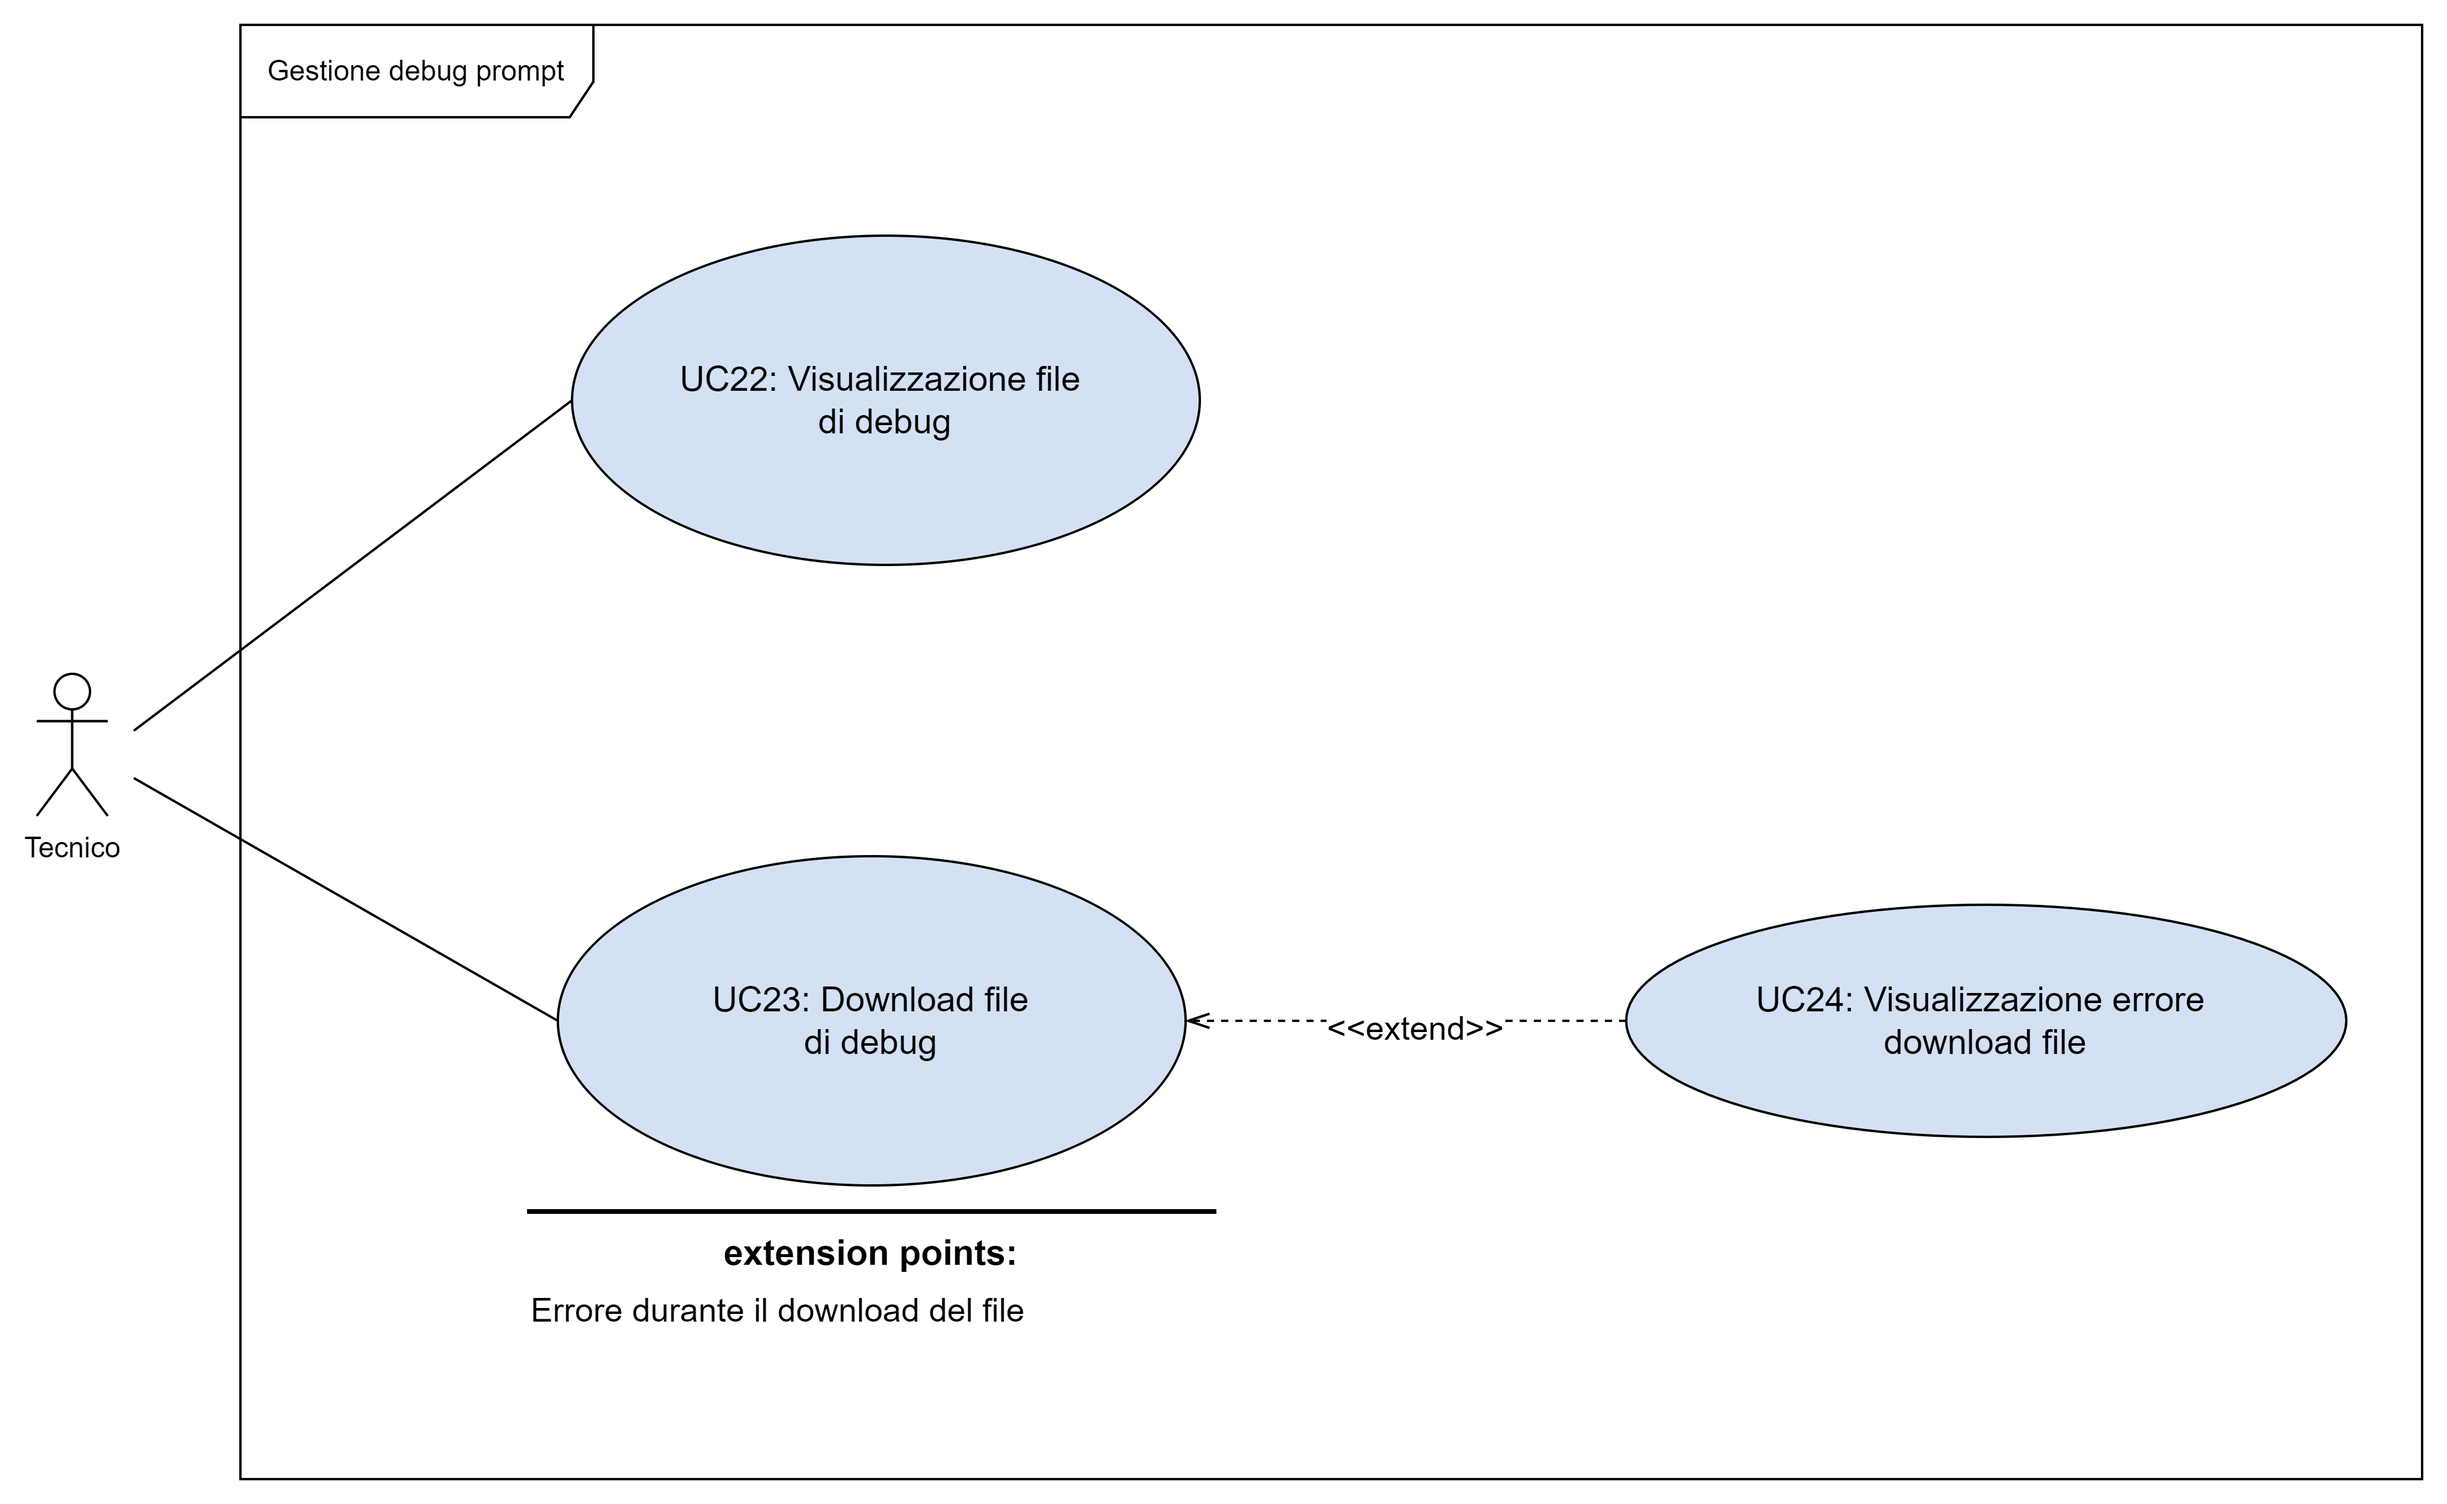
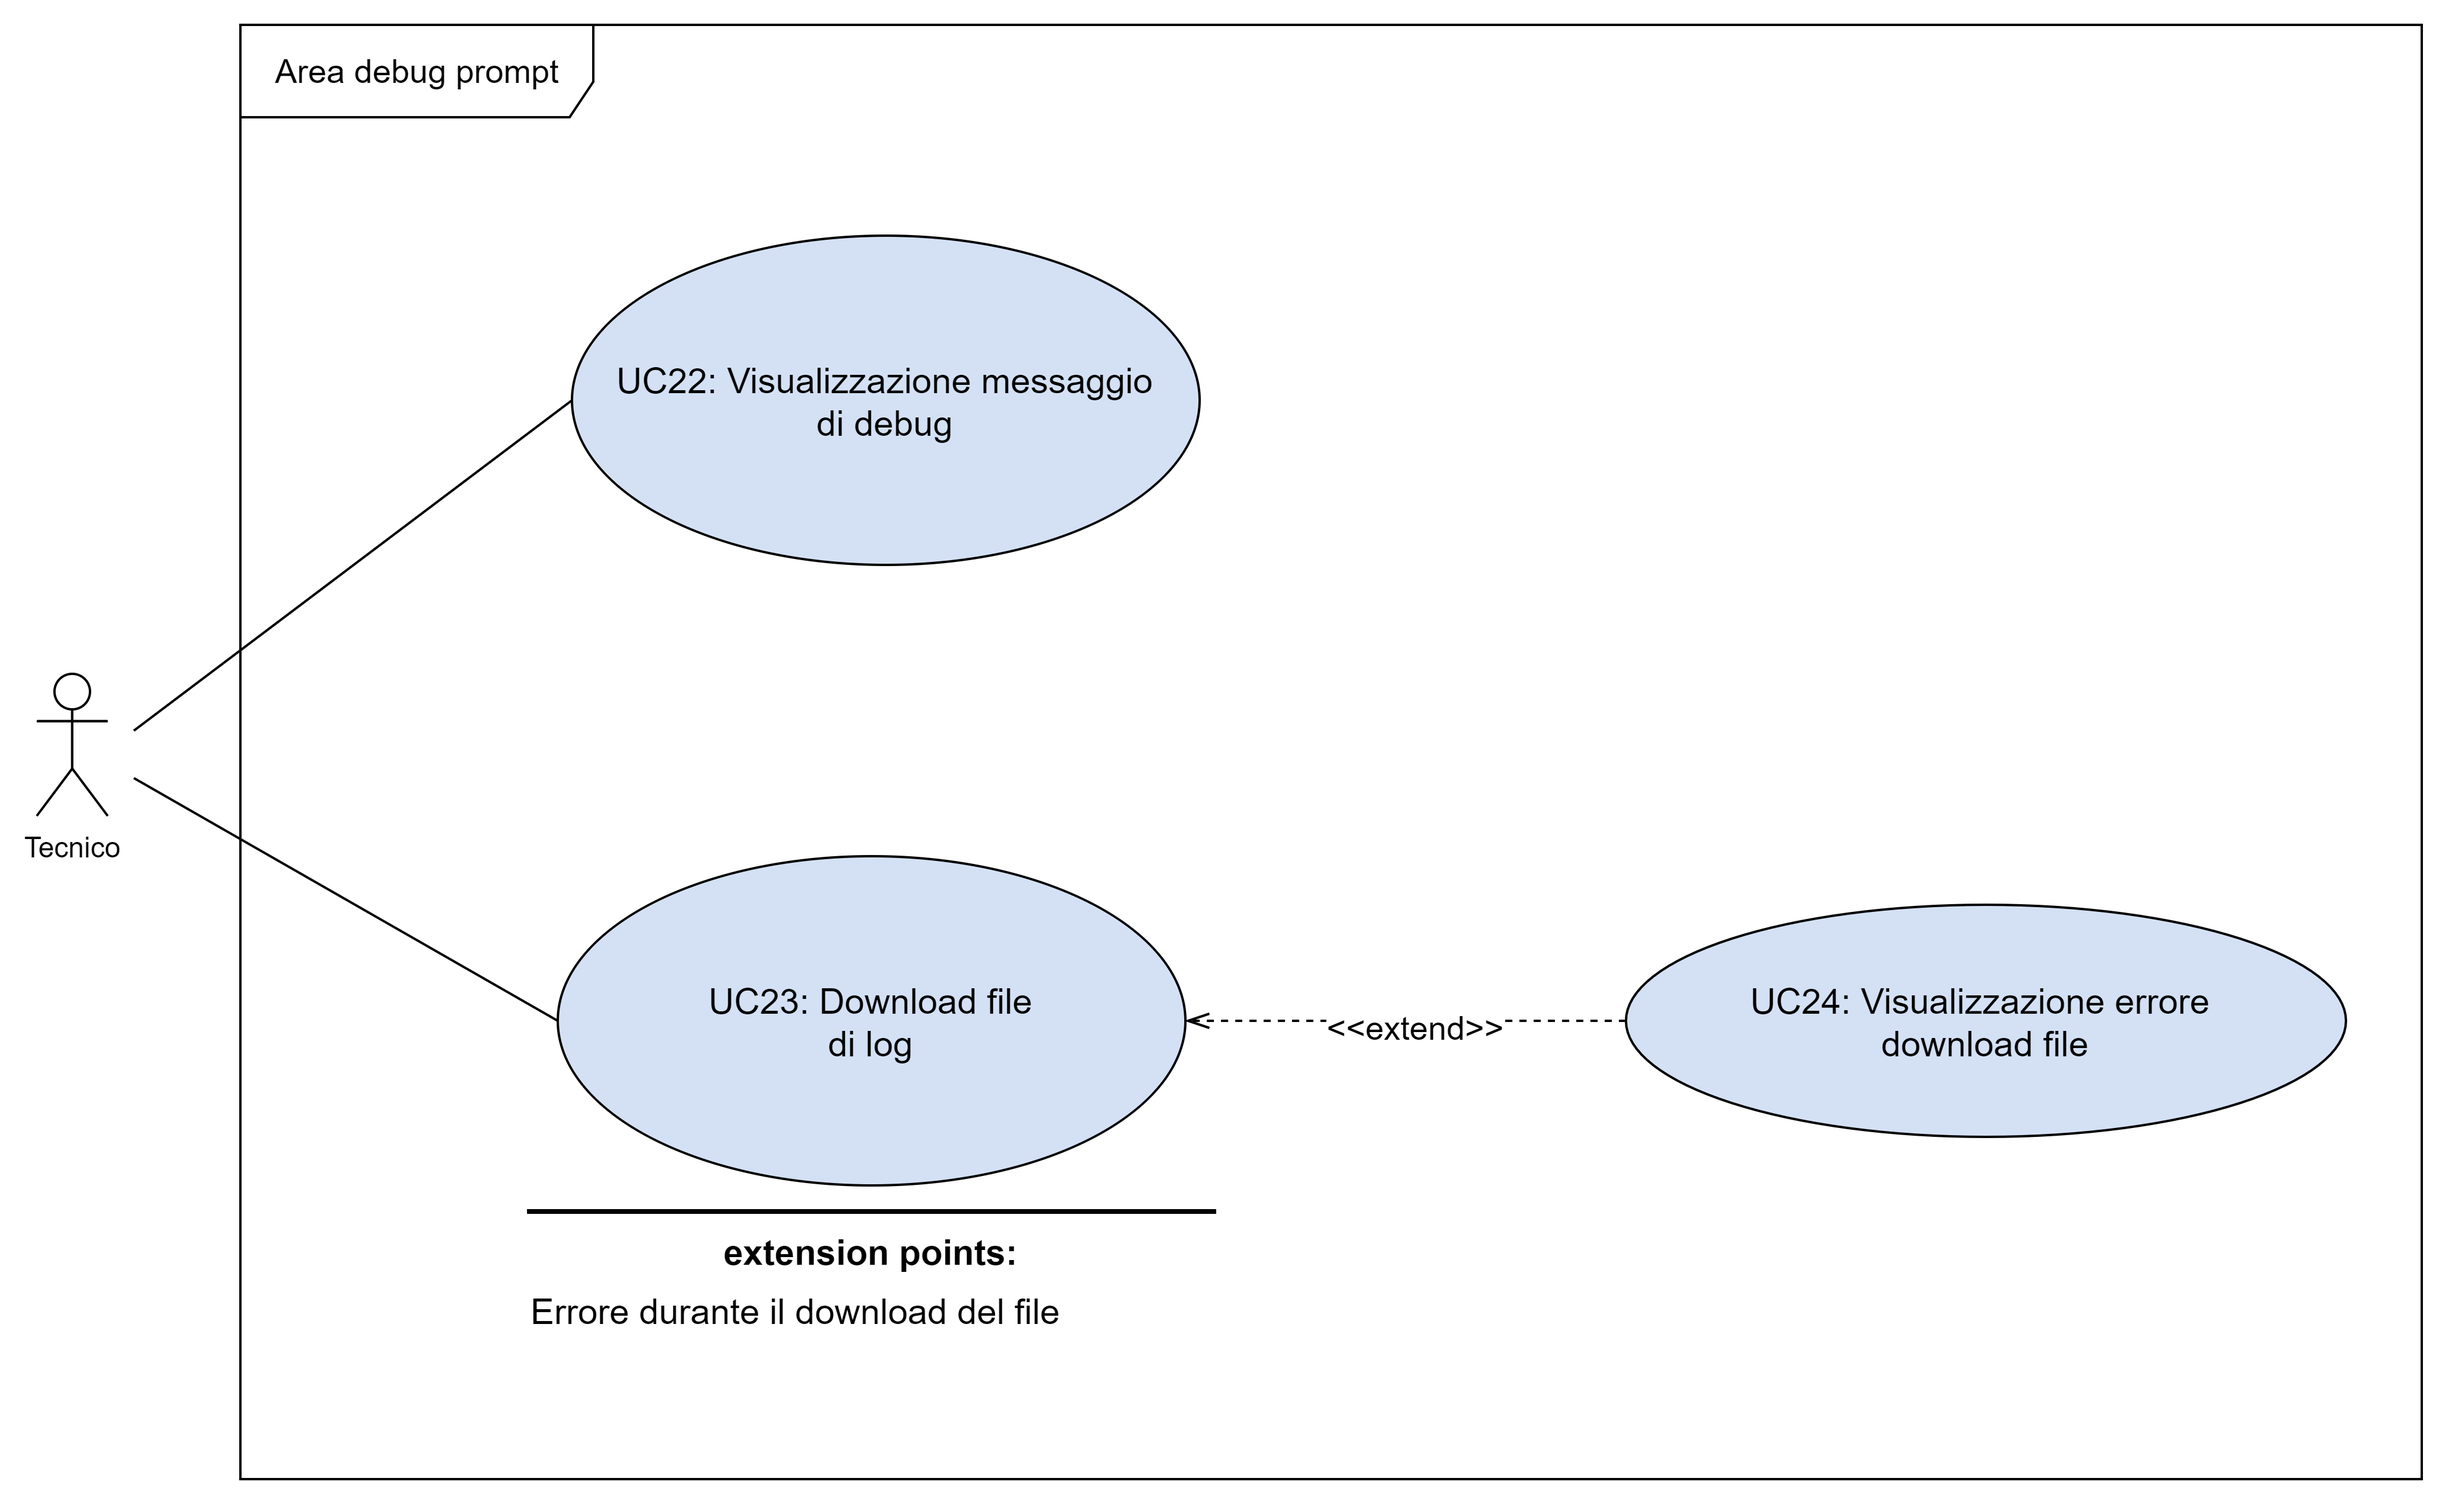
aggiunti ultimi grafici

diff --git a/sources/documents/2_RTB/AnalisiDeiRequisiti/usecase/uc13.tex b/sources/documents/2_RTB/AnalisiDeiRequisiti/usecase/uc13.tex
@@ -1,4 +1,4 @@
-\subsubsection{UC13 - Salvataggio di un dizionario dati nel sistema}\label{UC13}
+\subsubsection{UC13 - Salvataggio di un nuovo dizionario dati nel sistema}\label{UC13}
 
 \begin{figure}[H]
   \centering
@@ -52,11 +52,13 @@ Il Tecnico vuole aggiungere un nuovo \glossario{dizionario dati} nell'applicazio
 \begin{itemize}
   \item Visualizzazione errore validazione file (\hyperref[UC19]{UC19}).
   \begin{itemize}
-    \item Extension point: errore nella validazione del file scelto come \glossario{dizionario dati}.
+    \item Extension point: errore nella validazione del file scelto come \glossario{dizionario dati};
+    \item Condition: formato del file non valido, file troppo pesante, file non conforme allo schema predefinito.
   \end{itemize}
   \item Visualizzazione errore nome \glossario{dizionario dati} (\hyperref[UC31]{UC31}).
   \begin{itemize}
-    \item Extension point: errore nella validazione del nome del \glossario{dizionario dati}.
+    \item Extension point: errore nella validazione del nome del \glossario{dizionario dati};
+    \item Condition: formato del nome non corretto, nome già esistente.
   \end{itemize}
   \item Visualizzazione errore descrizione \glossario{dizionario dati} (\hyperref[UC32]{UC32}).
   \begin{itemize}

diff --git a/sources/documents/2_RTB/AnalisiDeiRequisiti/casiduso.tex b/sources/documents/2_RTB/AnalisiDeiRequisiti/casiduso.tex
@@ -43,8 +43,8 @@ Alcuni dei casi d'uso gestiscono situazioni di errore, questo permette ai progra
 \input{usecase/uc21}
 \begin{figure}[H]
   \centering
-  \includegraphics[width=0.90\textwidth]{assets/debug.png}
-  \caption{Diagramma gestione debug prompt}
+  \includegraphics[width=0.90\textwidth, height=0.80\textheight]{assets/debug.png}
+  \caption{Diagramma area debug prompt}
 \end{figure}
 \input{usecase/uc22}
 \input{usecase/uc23}
@@ -61,3 +61,7 @@ Alcuni dei casi d'uso gestiscono situazioni di errore, questo permette ai progra
 \input{usecase/uc34}
 \input{usecase/uc35}
 \input{usecase/uc36}
+\input{usecase/uc37}
+\input{usecase/uc38}
+\input{usecase/uc39}
+\input{usecase/uc40}

diff --git a/sources/documents/2_RTB/AnalisiDeiRequisiti/registro_modifiche.tex b/sources/documents/2_RTB/AnalisiDeiRequisiti/registro_modifiche.tex
@@ -23,7 +23,7 @@
 		\endlastfoot
 
 		% IN ORDINE DALLA MODIFICA PIÙ RECENTE ALLA PIÙ VECCHIA
-		0.1.1 & 2024-06-23 & \riccardo & \martina & Definizione caso d'uso debug prompt \\
+		0.1.1 & 2024-06-23 & \riccardo & \martina, \mattia, \tommaso & Definizione caso d'uso debug prompt, aggiunta grafici \\
 		\hline 0.1.0 & 2024-06-19 & \riccardo & \martina & Revisione casi d'uso, aggiunta grafici e requisiti funzionali, di qualità, di vincolo e di dominio \\
 		\hline 0.0.8 & 2024-06-03 & \raul & \marco, \riccardo & Aggiunta casi d'uso \\
 		\hline 0.0.7 & 2024-06-02 & \raul & \marco, \riccardo & Revisione completa e aggiunta di casi d'uso \\

diff --git a/sources/documents/2_RTB/AnalisiDeiRequisiti/usecase/uc22.tex b/sources/documents/2_RTB/AnalisiDeiRequisiti/usecase/uc22.tex
@@ -1,4 +1,4 @@
-\subsubsection{UC25 - Visualizzazione messaggio di debug}\label{UC25}
+\subsubsection{UC22 - Visualizzazione messaggio di debug}\label{UC22}
 \paragraph*{Descrizione}
 Il Tecnico visualizza un messaggio di \glossario{debug} che illustra il processo di generazione del \glossario{prompt}. Il debug può aiutare il Tecnico a capire come migliorare il \glossario{dizionario dati}, in particolare le descrizioni in linguaggio naturale delle tabelle e delle colonne del database. Nel file di \glossario{log}, infatti, è documentato il modo in cui le descrizioni interagiscono con il modello di \glossario{AI}.
 

diff --git a/sources/documents/2_RTB/AnalisiDeiRequisiti/usecase/uc31.tex b/sources/documents/2_RTB/AnalisiDeiRequisiti/usecase/uc31.tex
@@ -28,3 +28,9 @@ Tecnico
   \item Il sistema riscontra un errore nella validazione del nome del \glossario{dizionario dati};
   \item Il sistema restituisce un messaggio con i dettagli dell'errore.  
 \end{enumerate}
+
+\paragraph*{Specializzazioni}
+\begin{itemize}
+  \item Formato del nome non corretto (\hyperref[UC39]{UC39});
+  \item Nome già in uso (\hyperref[UC40]{UC40}).
+\end{itemize}

diff --git a/sources/documents/2_RTB/AnalisiDeiRequisiti/usecase/uc19.tex b/sources/documents/2_RTB/AnalisiDeiRequisiti/usecase/uc19.tex
@@ -31,6 +31,7 @@ Tecnico
 
 \paragraph*{Specializzazioni}
 \begin{itemize}
-  \item Credenziali incomplete (\hyperref[UC37]{UC37});
-  \item Credenziali errate (\hyperref[UC38]{UC38}).
+  \item Formato del file non valido (\hyperref[UC28]{UC28});
+  \item File troppo pesante (\hyperref[UC33]{UC33});
+  \item File non conforme allo schema predefinito (\hyperref[UC34]{UC34}).
 \end{itemize}

diff --git a/sources/documents/2_RTB/AnalisiDeiRequisiti/usecase/uc40.tex b/sources/documents/2_RTB/AnalisiDeiRequisiti/usecase/uc40.tex
@@ -1,4 +1,4 @@
-\subsubsection{UC31.2 - Nome già in uso}\label{UC31point2}
+\subsubsection{UC40 - Nome già in uso}\label{UC40}
 \paragraph*{Descrizione}
 Il sistema restituisce un messaggio di errore nel caso in cui il nome del \glossario{dizionario dati} non sia univoco.
 

diff --git a/sources/documents/2_RTB/AnalisiDeiRequisiti/usecase/uc39.tex b/sources/documents/2_RTB/AnalisiDeiRequisiti/usecase/uc39.tex
@@ -1,4 +1,4 @@
-\subsubsection{UC39- Formato del nome non corretto}\label{UC39}
+\subsubsection{UC39 - Formato del nome non corretto}\label{UC39}
 \paragraph*{Descrizione}
 Il sistema restituisce un messaggio di errore nel caso in cui il formato del nome sia invalido.
 
